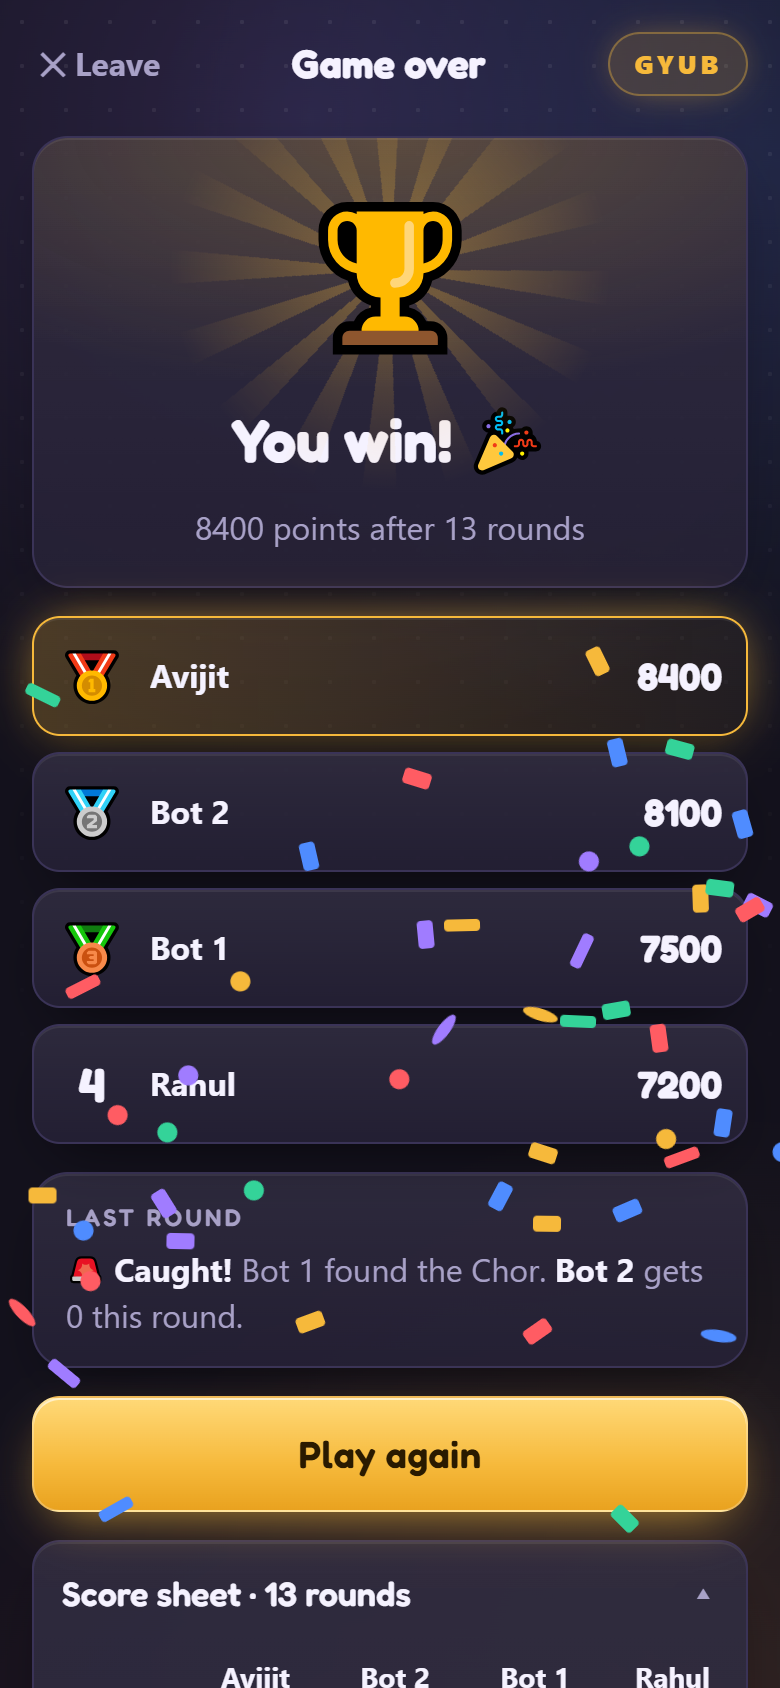
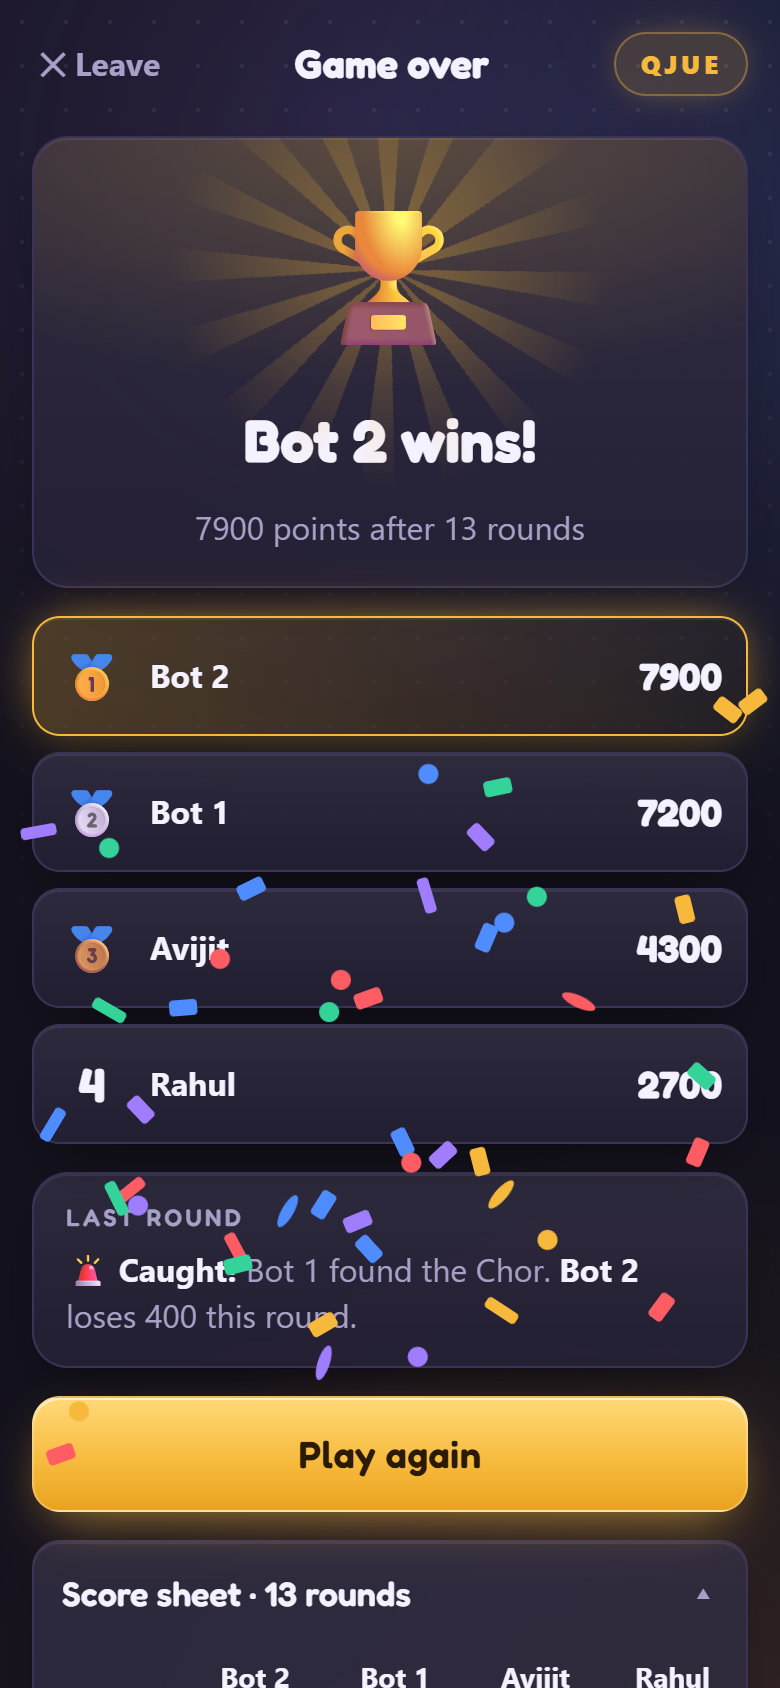
Retake README screenshots with the new scoring

diff --git a/CLAUDE.md b/CLAUDE.md
@@ -217,4 +217,4 @@ As of 2026-10-24.
 - **2026-10-26:** Slowed the bots down at the owner's request: Babu bots now take 3–4.5 s and Police bots 3.5–5.5 s, instead of 1.2–2.4 s for both. Checked with a timed local game; `npm test` passes.
 - **2026-11-09:** Added the Cloudflare Workers version (`worker.mjs`, `wrangler.jsonc`) as the pilot for the Friend's Night hub. The client now sends a `ping` every 20 s and ignores `pong`. `test/play.js` accepts `TEST_URL` to test a running server; all checks pass on Node and on `wrangler dev`.
 - **2026-11-09:** README play link changed to `https://cpdb.avibose000.workers.dev/` (and the "server may take a minute to wake" sentence removed). Scoring changed: a caught Chor/Dakat gets -300/-600 and a Police who guesses wrong gets -900. Client shows negative deltas in red, and the result, hint and chit texts were reworded. `npm test` passes on Node (not rerun on `wrangler dev`). README screenshots not retaken yet; the result screenshot still shows the old "gets 0" wording.
-- **2026-11-10:** Chor chit changed from 300 to 400 at the owner's request (caught Chor now gets -400). Pushed the unpushed 2026-11-09 commit, so the README on GitHub now shows the Cloudflare link instead of Render. `npm test` passes on Node and on `wrangler dev`; deployed to Cloudflare. README screenshots still not retaken.
+- **2026-11-10:** Chor chit changed from 300 to 400 at the owner's request (caught Chor now gets -400). Pushed the unpushed 2026-11-09 commit, so the README on GitHub now shows the Cloudflare link instead of Render. `npm test` passes on Node and on `wrangler dev`; deployed to Cloudflare. README screenshots retaken with the new scoring.

diff --git a/README.md b/README.md
@@ -15,7 +15,7 @@ Free, nothing to download, works in any phone browser.
 <p align="center">
   <img src="docs/screenshots/5-investigating.png" width="200" alt="Everyone watching the Police investigate">
   <img src="docs/screenshots/6-chit.png" width="200" alt="Peeking at your secret chit">
-  <img src="docs/screenshots/7-result.png" width="200" alt="Round result: the Police caught the Dakat">
+  <img src="docs/screenshots/7-result.png" width="200" alt="Round result: the Police guessed wrong and loses 900">
   <img src="docs/screenshots/8-over.png" width="200" alt="Game over with the final standings">
 </p>
 
